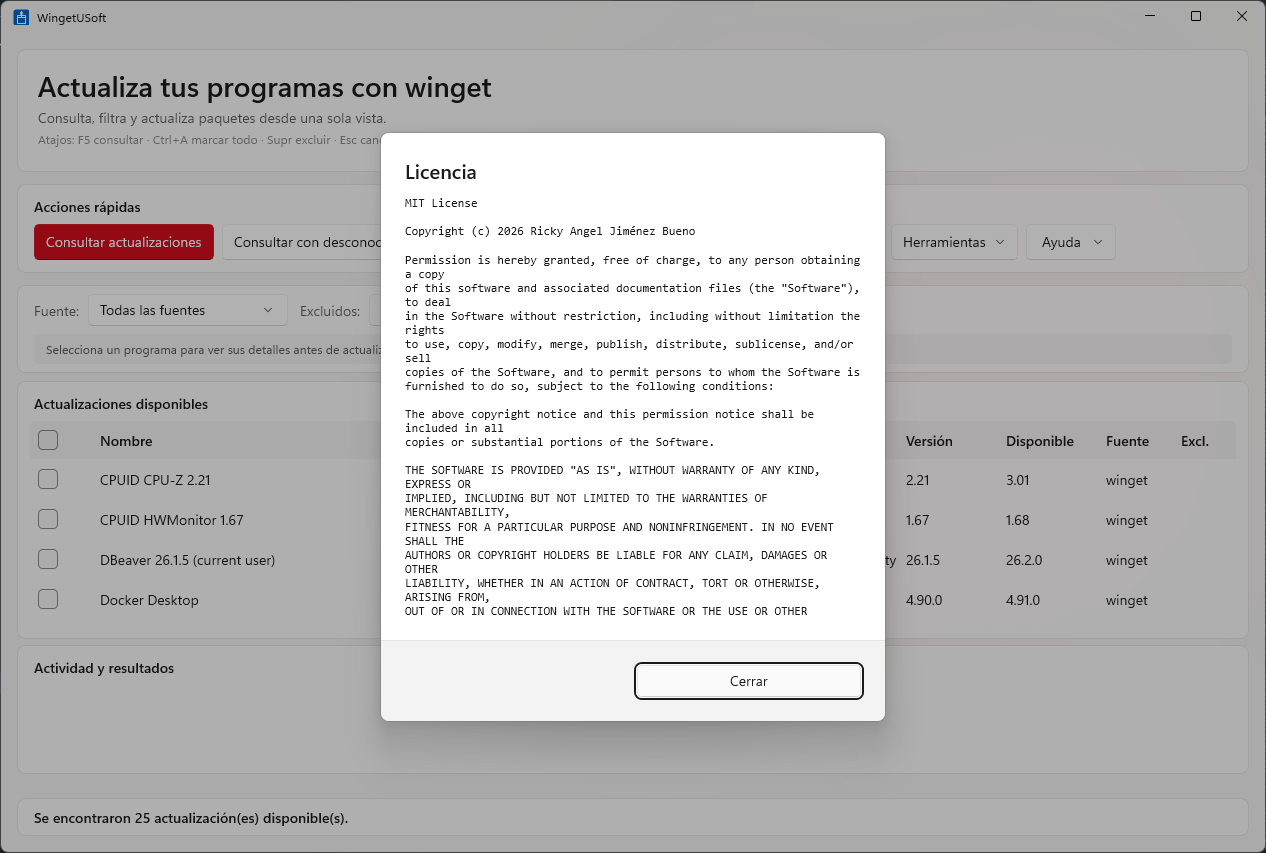
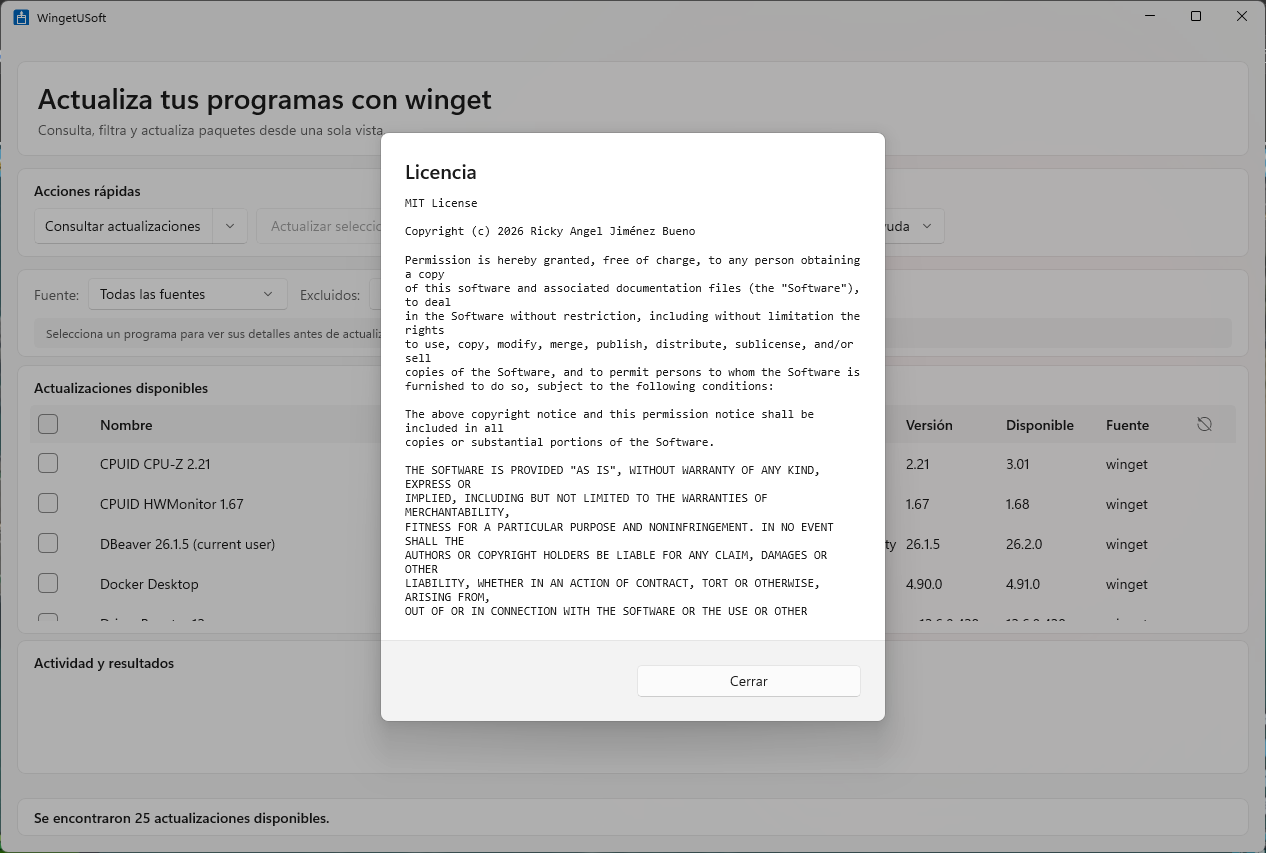
release: v1.10.0

diff --git a/ROADMAP.md b/ROADMAP.md
@@ -2261,11 +2261,11 @@ explícita.
 | 2026-09-17 | F-15 | Etiquetas reales en búsquedas y filtros | UI test nuevo en Historial · 4 guards fallan al revertir · 43/43 UI tests | `50119e5` | 1.9.0 |
 | 2026-09-17 | F-14 | Estilos compartidos en `App.xaml` | 30 tarjetas en 4 estilos · capturas antes/después · 3 guards fallan al revertir · 43/43 UI tests | `7ddfd17` | 1.9.0 |
 | 2026-09-17 | F-16 | Configuración con un único patrón de fila | capturas en 2 temas y 2 idiomas · Quitar y Abrir carpeta en la app real · 51/51 UI tests | `d3d634c` | 1.9.0 |
-| 2026-09-17 | F-21 | Atajos donde se usan, y `Ctrl+F` | teclas y ratón reales en la app · 7 guards fallan al revertir · 350/350 unitarios · 56/56 UI tests | `1ce1eed` | — |
-| 2026-09-17 | F-23 | «Consultar» como `SplitButton` y un solo acento | acento medido por saturación en 3 estados · 2 guards fallan al revertir · 353/353 unitarios · 56/56 UI tests | `ca083cb` | — |
-| 2026-09-17 | F-22 | Aviso de nueva versión breve | aviso real con una copia 1.8.0 · mensaje de 30 caracteres · changelog a un clic · 355/355 unitarios · 56/56 UI tests | `0836a18` | — |
-| 2026-09-17 | F-18 | Estados vacíos accionables y un único mensaje de arranque | 4 listas con el mismo panel · instrucción de 3 veces a 1 · 6 guards fallan al revertir · 361/361 unitarios · 58/58 UI tests | `f0445da` | — |
-| 2026-09-17 | F-20 | Pulido de textos: plurales, tratamiento, abreviaturas y truncados | 12 claves con plural real · tuteo en español · «Unknown» traducido · 395/395 unitarios · 58/58 UI tests | — | — |
+| 2026-09-17 | F-21 | Atajos donde se usan, y `Ctrl+F` | teclas y ratón reales en la app · 7 guards fallan al revertir · 350/350 unitarios · 56/56 UI tests | `1ce1eed` | 1.10.0 |
+| 2026-09-17 | F-23 | «Consultar» como `SplitButton` y un solo acento | acento medido por saturación en 3 estados · 2 guards fallan al revertir · 353/353 unitarios · 56/56 UI tests | `ca083cb` | 1.10.0 |
+| 2026-09-17 | F-22 | Aviso de nueva versión breve | aviso real con una copia 1.8.0 · mensaje de 30 caracteres · changelog a un clic · 355/355 unitarios · 56/56 UI tests | `0836a18` | 1.10.0 |
+| 2026-09-17 | F-18 | Estados vacíos accionables y un único mensaje de arranque | 4 listas con el mismo panel · instrucción de 3 veces a 1 · 6 guards fallan al revertir · 361/361 unitarios · 58/58 UI tests | `f0445da` | 1.10.0 |
+| 2026-09-17 | F-20 | Pulido de textos: plurales, tratamiento, abreviaturas y truncados | 12 claves con plural real · tuteo en español · «Unknown» traducido · 395/395 unitarios · 58/58 UI tests | `b80212d` | 1.10.0 |
 
 ### Línea base del Tier F (2026-09-14, v1.8.8)
 

diff --git a/CONTEXT.md b/CONTEXT.md
@@ -261,6 +261,7 @@ Lo comparten el hook de pre-push y `release.ps1`.
 
 | Fecha | Versión | Qué |
 |---|---|---|
+| 2026-09-17 | **1.10.0** | **Tier F · bloque F·3 (5 de 7)** — atajos en su propio control y `Ctrl+F`, «Consultar» como `SplitButton` con el acento en la acción del momento, aviso de versión nueva breve, estados de lista accionables en las cuatro ventanas y textos con plurales reales |
 | 2026-09-17 | **1.9.0** | **Tier F · bloque F·2 completo** — Mica visible, diálogos y barra de título modernos, estilos compartidos, etiquetas reales en búsquedas y filtros, y Configuración rehecha con un único patrón de fila |
 | 2026-09-17 | **1.8.9** | **Tier F · bloque F·1 completo** — la bandeja por fin funciona (icono y menú con «Salir»), la tabla desplaza por sí misma, confirmaciones con verbo, botón de peligro AA y diálogos con el tema elegido; CI, CodeQL y Dependabot en GitHub |
 | 2026-08-23 | **1.8.8** | **Tier T4 y cierre del plan de auditoría** — MainWindow dividido, el flujo de lotes por fin probable, cobertura en local, y SECURITY/CONTRIBUTING/CHANGELOG |
@@ -281,7 +282,7 @@ Lo comparten el hook de pre-push y `release.ps1`.
 
 ---
 
-### 2026-09-17 — Tier F, bloque F·3: experiencia de uso (F-18, F-20 a F-23, **sin publicar todavía**)
+### 2026-09-17 — Tier F, bloque F·3: experiencia de uso (F-18, F-20 a F-23, release v1.10.0)
 
 **22 de 26** del Tier F. Build 0/0, **395/395 unitarios**, **58/58 UI tests**. Cinco de las siete tareas del
 bloque; queda F-19 (tabla usable durante los lotes) y F-17 (densidad), que es la que cambiará la cabecera.
@@ -326,8 +327,8 @@ continuar?», que además sobra con el verbo en el botón), el «Unknown» que e
 mostrarlo** (las versiones crudas siguen alimentando `VersionOrder`), la columna «Excl.» pasa a icono con su
 nombre completo en el tooltip, y Nombre e Id llevan tooltip con el valor entero en las tres tablas.
 
-**Pendiente antes del próximo corte:** las capturas de `docs/screenshots` siguen mostrando los dos botones de
-consulta y la cabecera anterior. Se regeneran cuando F-17 haya cambiado también la cabecera.
+**Capturas del README** regeneradas para este corte: las anteriores mostraban los dos botones de consulta, la
+pantalla inicial sin su botón y el aviso de actualización dentro de la tarjeta de cabecera.
 
 ---
 

diff --git a/SECURITY.md b/SECURITY.md
@@ -9,7 +9,7 @@ para que puedas avisar por un canal privado antes de que sea público.
 
 | Versión | Soporte |
 |---|---|
-| Última publicada (1.9.x) | ✅ |
+| Última publicada (1.10.x) | ✅ |
 | Cualquier versión anterior | ❌ |
 
 Es un proyecto de autor único: no hay ramas de mantenimiento. Las correcciones salen en la siguiente
